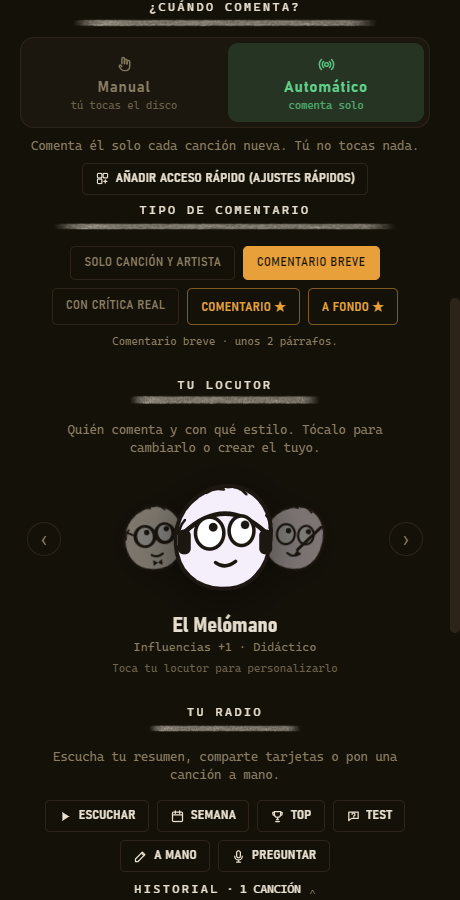
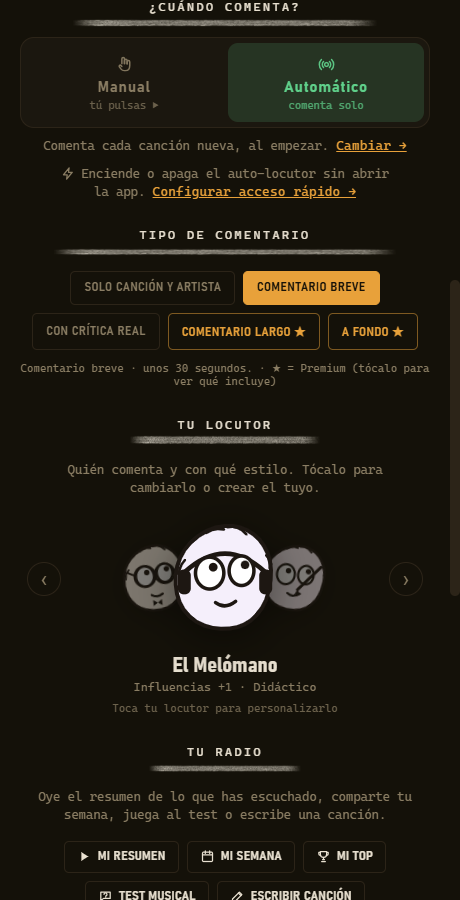
Landing al día con Locutor 2.28: textos, capturas nuevas y descarga de la última versión
- Sin "datos reales, nunca inventados" (las fuentes son de edición abierta): "datos de fuentes de referencia"
- Fuera lo retirado: colchón de sonido / Sofá sonoro; el locutor ya no "comenta el momento" (entra por el verso)
- Nombres actuales: ▶ sobre la carátula, voz natural (Microsoft), test musical, tipos de comentario, iTunes
- "Cómo funciona": primero la música y ▶; la clave gratis después (la app funciona sin ella)
- Locutores con su tono real; El Devoto sin "por qué se venera"; precios sin emoji y con el test semanal
- FAQ: podcasts y "Borrar mis datos"
- Capturas regeneradas con la interfaz actual; tarjeta en JPEG (1,1 MB -> 100 KB)
- Descarga: /releases/latest/download/Locutor-Setup.exe (no hay que tocarla en cada versión)

diff --git a/public/index.html b/public/index.html
@@ -204,7 +204,7 @@
     <div>
       <div class="tally mono"><span class="dot"></span>EN DIRECTO · SIN MICRÓFONO</div>
       <h1>Una radio que sabe <span class="amber">de verdad</span> de tu música.</h1>
-      <p class="lead">Unos locutores con IA comentan en voz alta lo que suena en tu ordenador —con datos <b>reales</b>, nunca inventados—. <b>Sin micrófono, sin permisos</b>, y <b>gratis</b> con tu propia clave.</p>
+      <p class="lead">Unos locutores con IA comentan en voz alta lo que suena en tu ordenador, con datos de <b>fuentes de referencia</b>. <b>Sin micrófono, sin permisos</b>, y <b>gratis</b> con tu propia clave.</p>
       <div class="cta-row">
         <a class="btn big" href="#descargar">▶ Descargar para Windows</a>
         <a class="btn ghost big" href="#como">Ver cómo funciona</a>
@@ -223,7 +223,7 @@
 <!-- STRIP -->
 <div class="strip"><div class="wrap">
   <span><span class="i">✓</span><b>Sin micrófono</b> — lee el título y el artista, no graba</span>
-  <span><span class="i">✓</span><b>Datos reales</b> — Genius · Wikipedia · MusicBrainz · Last.fm</span>
+  <span><span class="i">✓</span><b>Con fuentes</b> — Genius · Wikipedia · MusicBrainz · Last.fm · iTunes</span>
   <span><span class="i">✓</span><b>Tu clave, tu equipo</b> — cifrada, nunca en el servidor</span>
   <span><span class="i">✓</span><b>Gratis</b> — con opciones de IA sin tarjeta</span>
 </div></div>
@@ -242,8 +242,8 @@
       <h3>Reacciona al verso que suena.</h3>
       <p>La letra sincronizada resalta la <b>línea exacta</b> que suena en cada momento, y tu locutor <b>entra por lo que dice</b> ese verso. Como un karaoke con quien te lo explica.</p>
       <ul class="ticks">
-        <li>Detecta la posición de la canción en tiempo real</li>
-        <li>El locutor comenta el momento, no de forma genérica</li>
+        <li>Sigue la canción en tiempo real y resalta el verso que suena</li>
+        <li>Si encaja, tu locutor entra por lo que dice ese verso</li>
         <li>Gratis, y se puede apagar cuando quieras</li>
       </ul>
     </div>
@@ -251,29 +251,29 @@
 
   <!-- Tú mandas: manual / automático -->
   <div class="feat rev" style="margin-top:64px">
-    <div class="fig reveal"><div class="device"><img src="img/selector.png" alt="Selector Manual o Automático: en manual tocas el disco, en automático comenta solo al cambiar de canción" /></div></div>
+    <div class="fig reveal"><div class="device"><img src="img/selector.png" alt="Selector Manual o Automático: en manual pulsas ▶ sobre la carátula, en automático comenta solo al cambiar de canción" /></div></div>
     <div class="reveal">
       <span class="kicker">Tú mandas</span>
       <h3>Manual o automático. Tú decides cuándo habla.</h3>
-      <p>En <b>Manual</b>, tocas el disco y comenta. En <b>Automático</b>, habla solo entre canciones —ponlo y olvídate—. Y elige <b>en qué se fija</b>: la letra, la producción, la historia…</p>
+      <p>En <b>Manual</b>, pulsas ▶ sobre la carátula y comenta. En <b>Automático</b>, comenta solo cada canción nueva —ponlo y olvídate—: una de cada dos, cada una o dos veces por canción. Y elige <b>en qué se fija</b>: la letra, la producción, la historia…</p>
       <ul class="ticks">
-        <li>Comentario <b>breve</b>, normal o <b>a fondo</b></li>
+        <li>Solo el nombre, comentario <b>breve</b>, con <b>crítica real</b>, largo o <b>a fondo</b></li>
         <li>Baja la música mientras habla y la sube al terminar</li>
-        <li>Un colchón de sonido y una firma al entrar, como una emisora</li>
+        <li>Al empezar la canción o al terminar, acabando antes de que entre la siguiente</li>
       </ul>
     </div>
   </div>
 
   <!-- De dónde sale: MISMO formato que las otras filas (mockup + ticks), aclarando el proceso -->
   <div class="feat" style="margin-top:64px">
-    <div class="fig card reveal"><div class="device"><img src="img/card.png" alt="Tarjeta de un comentario con datos reales: álbum, año, género, sello, compositor y las fuentes Genius, Wikipedia y MusicBrainz" /></div></div>
+    <div class="fig card reveal"><div class="device"><img src="img/card.jpg" alt="Tarjeta de un comentario con sus datos: álbum, año, género, sello, compositor y las fuentes Genius, Wikipedia y MusicBrainz" loading="lazy" /></div></div>
     <div class="reveal">
       <span class="kicker">De dónde sale</span>
       <h3>Tu locutor sabe de lo que habla.</h3>
       <p>No habla por hablar. Antes de comentar, reconoce la canción y busca los datos en fuentes de referencia.</p>
       <ul class="ticks">
         <li>Lee el <b>título y el artista</b> de lo que suena —sin micrófono</li>
-        <li>Consulta <b>Genius, Wikipedia, MusicBrainz y Last.fm</b></li>
+        <li>Consulta <b>Genius, Wikipedia, MusicBrainz, Last.fm e iTunes</b></li>
         <li>Lo cuenta con su estilo y te <b>enseña de dónde sale</b> cada dato</li>
       </ul>
     </div>
@@ -281,12 +281,12 @@
 
   <!-- Rejilla de más potencial -->
   <div class="grid">
-    <div class="card reveal"><div class="ico"><svg viewBox="0 0 24 24"><rect x="9" y="3" width="6" height="11" rx="3"/><path d="M6 11.5a6 6 0 0 0 12 0M12 17.5V21M9 21h6"/></svg></div><h4>Tu locutor, a tu gusto</h4><p>Nueve personalidades listas —o crea la tuya: su enfoque, su tono, hasta una voz que imitar.</p></div>
-    <div class="card reveal"><div class="ico"><svg viewBox="0 0 24 24"><circle cx="12" cy="12" r="2"/><path d="M8.5 8.5a5 5 0 0 0 0 7M15.5 8.5a5 5 0 0 1 0 7M6 6a8.5 8.5 0 0 0 0 12M18 6a8.5 8.5 0 0 1 0 12"/></svg></div><h4>Voces de verdad</h4><p>Voz neural gratis (Edge), la voz de tu propia IA, o premium con ElevenLabs / Cartesia. Una por locutor.</p></div>
+    <div class="card reveal"><div class="ico"><svg viewBox="0 0 24 24"><rect x="9" y="3" width="6" height="11" rx="3"/><path d="M6 11.5a6 6 0 0 0 12 0M12 17.5V21M9 21h6"/></svg></div><h4>Tu locutor, a tu gusto</h4><p>Nueve personalidades listas —o crea la tuya: su enfoque, su tono y su personalidad.</p></div>
+    <div class="card reveal"><div class="ico"><svg viewBox="0 0 24 24"><circle cx="12" cy="12" r="2"/><path d="M8.5 8.5a5 5 0 0 0 0 7M15.5 8.5a5 5 0 0 1 0 7M6 6a8.5 8.5 0 0 0 0 12M18 6a8.5 8.5 0 0 1 0 12"/></svg></div><h4>Voces de verdad</h4><p>Voz natural gratis (Microsoft), la voz de tu propia IA, o premium con ElevenLabs / Cartesia. Una por locutor.</p></div>
     <div class="card reveal"><div class="ico"><svg viewBox="0 0 24 24"><path d="M12 20s-6.8-4.2-9.1-8.4C1.3 8.7 2.8 5.7 5.6 5.4 7.5 5.2 9 6.1 12 8.6c3-2.5 4.5-3.4 6.4-3.2 2.8.3 4.3 3.3 2.7 6.2C18.8 15.8 12 20 12 20z"/></svg></div><h4>Te conoce</h4><p>Aprende tus gustos entre sesiones y los referencia con naturalidad. Tu radio, cada vez más tuya.</p></div>
-    <div class="card reveal"><div class="ico"><svg viewBox="0 0 24 24"><path d="M4 20V13M9.3 20V8M14.6 20v-5M20 20V5"/></svg></div><h4>Tu semana</h4><p>Resumen de lo que has escuchado, tu Top de artistas y una tarjeta lista para compartir.</p></div>
-    <div class="card reveal"><div class="ico"><svg viewBox="0 0 24 24"><path d="M4.5 5h15v10H9l-4.5 3.5z"/><path d="M9.6 8.6a2.4 2.4 0 1 1 2.9 2.4v.9"/><circle cx="12.4" cy="13.4" r=".7" fill="#E8A13A" stroke="none"/></svg></div><h4>Test de tu semana</h4><p>Un juego con preguntas sobre TUS canciones, sacadas de lo que ya te han contado y de sus fuentes.</p></div>
-    <div class="card reveal"><div class="ico"><svg viewBox="0 0 24 24"><circle cx="8" cy="8" r="4.5"/><path d="M11.2 11.2 20 20M16.7 16.7 18.7 14.7M14.2 14.2 16.2 12.2"/></svg></div><h4>Tu IA, tu elección</h4><p>Gemini, Groq, Mistral (gratis), OpenAI o Claude. Guarda varias claves: si una se agota, usa otra sola.</p></div>
+    <div class="card reveal"><div class="ico"><svg viewBox="0 0 24 24"><path d="M4 20V13M9.3 20V8M14.6 20v-5M20 20V5"/></svg></div><h4>Tu semana</h4><p>Tu resumen, tu semana y tu top, en tarjetas que ves antes de compartir.</p></div>
+    <div class="card reveal"><div class="ico"><svg viewBox="0 0 24 24"><path d="M4.5 5h15v10H9l-4.5 3.5z"/><path d="M9.6 8.6a2.4 2.4 0 1 1 2.9 2.4v.9"/><circle cx="12.4" cy="13.4" r=".7" fill="#E8A13A" stroke="none"/></svg></div><h4>Test musical</h4><p>Un juego con preguntas sobre TUS canciones, sacadas de lo que ya te han contado y de sus fuentes.</p></div>
+    <div class="card reveal"><div class="ico"><svg viewBox="0 0 24 24"><circle cx="8" cy="8" r="4.5"/><path d="M11.2 11.2 20 20M16.7 16.7 18.7 14.7M14.2 14.2 16.2 12.2"/></svg></div><h4>Tu IA, tu elección</h4><p>Gemini, Groq, Mistral (gratis), OpenAI o Claude. Si tu IA va saturada o sin cupo, prueba sola su modelo ligero u otra de tus claves.</p></div>
   </div>
 </div></section>
 
@@ -294,20 +294,20 @@
 <section id="como"><div class="wrap center">
   <div class="sec-lbl">CÓMO FUNCIONA</div>
   <h2 class="big reveal">Listo en treinta segundos.</h2>
-  <p class="sec-sub reveal">Sin configurar nada raro. Lo único que necesitas es una clave de IA —y hay varias gratis.</p>
+  <p class="sec-sub reveal">Sin configurar nada raro. Funciona desde el primer momento; con una clave de IA gratis, comenta de verdad.</p>
   <div class="steps" style="text-align:left">
-    <div class="step reveal">
-      <h3>Pon tu clave de IA</h3>
-      <p>Pégala y la app la reconoce sola. Hay <b style="color:var(--text)">varias gratis y sin tarjeta</b>: Gemini, Groq o Mistral. También valen OpenAI o Claude.</p>
-      <span class="free">✓ empieza gratis</span>
-    </div>
     <div class="step reveal">
       <h3>Pon música</h3>
       <p>En Spotify, YouTube Music o lo que uses. Locutor <b style="color:var(--text)">reconoce solo</b> lo que está sonando, por Windows. Sin micrófono.</p>
+      <span class="free">✓ empieza gratis</span>
     </div>
     <div class="step reveal">
-      <h3>Escucha el programa</h3>
-      <p>Tu locutor comenta la canción en voz alta. Tú a lo tuyo; él pone la radio —a mano o solo entre canciones.</p>
+      <h3>Pulsa ▶ sobre la carátula</h3>
+      <p>Tu locutor comenta la canción en voz alta. O ponlo en <b style="color:var(--text)">Automático</b> y comentará solo cada canción nueva.</p>
+    </div>
+    <div class="step reveal">
+      <h3>Pon tu clave gratis</h3>
+      <p>Sin clave nombra las canciones con datos de sus fuentes. Con una <b style="color:var(--text)">gratis y sin tarjeta</b> (Gemini, Groq o Mistral) las comenta con IA: la app te guía y la reconoce sola.</p>
     </div>
   </div>
 </div></section>
@@ -318,10 +318,10 @@
   <h2 class="big reveal">Cada uno oye la canción a su manera.</h2>
   <p class="sec-sub reveal">Elige el que va contigo —o crea el tuyo desde cero.</p>
   <div class="locs" style="text-align:left">
-    <div class="loc reveal"><div class="av"><svg viewBox="0 0 24 24"><path d="M4 13v-1a8 8 0 0 1 16 0v1"/><rect x="3" y="13" width="4.6" height="7" rx="2"/><rect x="16.4" y="13" width="4.6" height="7" rx="2"/></svg></div><div><h4>El Melómano</h4><div class="tag">Influencias · Apasionado</div><p>Conecta la canción con su linaje: de dónde bebe y a quién marcó.</p></div></div>
-    <div class="loc reveal"><div class="av"><svg viewBox="0 0 24 24"><path d="M12 6.6C10.4 5.2 7.8 4.7 4 5.3v13c3.8-.6 6.4-.1 8 1.3 1.6-1.4 4.2-1.9 8-1.3v-13c-3.8-.6-6.4-.1-8 1.3z"/><path d="M12 6.6V19.6"/></svg></div><div><h4>El Profesor</h4><div class="tag">Historia · Didáctico</div><p>De qué va de verdad y qué hay detrás: el dato que sabe un fan.</p></div></div>
-    <div class="loc reveal"><div class="av"><svg viewBox="0 0 24 24"><path d="M4 7h10M18 7h2M4 17h2M10 17h10"/><circle cx="16" cy="7" r="2.2"/><circle cx="8" cy="17" r="2.2"/></svg></div><div><h4>El Productor</h4><div class="tag">Producción · Sobrio</div><p>Cómo está hecha por dentro: arreglos y decisiones de estudio.</p></div></div>
-    <div class="loc reveal"><div class="av"><svg viewBox="0 0 24 24"><path d="M12 20s-6.8-4.2-9.1-8.4C1.3 8.7 2.8 5.7 5.6 5.4 7.5 5.2 9 6.1 12 8.6c3-2.5 4.5-3.4 6.4-3.2 2.8.3 4.3 3.3 2.7 6.2C18.8 15.8 12 20 12 20z"/></svg></div><div><h4>El Devoto</h4><div class="tag">Escena · Fan fiel</div><p>La mira con los ojos del fan de siempre: por qué se venera.</p></div></div>
+    <div class="loc reveal"><div class="av"><svg viewBox="0 0 24 24"><path d="M4 13v-1a8 8 0 0 1 16 0v1"/><rect x="3" y="13" width="4.6" height="7" rx="2"/><rect x="16.4" y="13" width="4.6" height="7" rx="2"/></svg></div><div><h4>El Melómano</h4><div class="tag">Influencias · Didáctico</div><p>Conecta la canción con su linaje: de dónde bebe y a quién marcó.</p></div></div>
+    <div class="loc reveal"><div class="av"><svg viewBox="0 0 24 24"><path d="M12 6.6C10.4 5.2 7.8 4.7 4 5.3v13c3.8-.6 6.4-.1 8 1.3 1.6-1.4 4.2-1.9 8-1.3v-13c-3.8-.6-6.4-.1-8 1.3z"/><path d="M12 6.6V19.6"/></svg></div><div><h4>El Profesor</h4><div class="tag">Teoría · Didáctico</div><p>Te enseña a oírla: un par de cosas que no habrías notado, sin que parezca una clase.</p></div></div>
+    <div class="loc reveal"><div class="av"><svg viewBox="0 0 24 24"><path d="M4 7h10M18 7h2M4 17h2M10 17h10"/><circle cx="16" cy="7" r="2.2"/><circle cx="8" cy="17" r="2.2"/></svg></div><div><h4>El Productor</h4><div class="tag">Producción · Apasionado</div><p>Cómo se hizo: quién la produjo, la decisión de estudio y la toma que se quedó.</p></div></div>
+    <div class="loc reveal"><div class="av"><svg viewBox="0 0 24 24"><path d="M12 20s-6.8-4.2-9.1-8.4C1.3 8.7 2.8 5.7 5.6 5.4 7.5 5.2 9 6.1 12 8.6c3-2.5 4.5-3.4 6.4-3.2 2.8.3 4.3 3.3 2.7 6.2C18.8 15.8 12 20 12 20z"/></svg></div><div><h4>El Devoto</h4><div class="tag">Escena · Fan fiel</div><p>La mira con los ojos del fan de siempre: la cara B, el directo legendario, el detalle que solo sabe quien la quiere.</p></div></div>
     <div class="loc reveal"><div class="av"><svg viewBox="0 0 24 24"><path d="M4 20h4L19 9l-4-4L4 16z"/><path d="M13.5 6.5l4 4"/></svg></div><div><h4>La Letrista</h4><div class="tag">Letra · Poética</div><p>El verso que gira el sentido, lo que confiesa quien canta.</p></div></div>
     <div class="loc reveal"><div class="av"><svg viewBox="0 0 24 24"><path d="M12 5v14M5 12h14"/></svg></div><div><h4>Crea el tuyo</h4><div class="tag">Personalizable</div><p>Elige su enfoque, su tono y hasta la forma de hablar de alguien.</p></div></div>
   </div>
@@ -350,9 +350,10 @@
         <li>Con tu clave (Gemini/Groq/Mistral gratis)</li>
         <li>Un locutor comentando</li>
         <li>Comentario <b>breve</b></li>
-        <li>Voz neural gratis o la voz de tu IA</li>
+        <li>Voz natural gratis o la voz de tu IA</li>
         <li>Letra sincronizada · reconoce sin micrófono</li>
-        <li>Puntúa ⭐ y comparte tu Top</li>
+        <li>Puntúa con estrellas y comparte tu top</li>
+        <li>1 test musical a la semana</li>
         <li class="no">Comentario largo y a fondo</li>
         <li class="no">Sin límite diario</li>
       </ul>
@@ -364,8 +365,8 @@
       <ul>
         <li>Todo lo de Gratis, también con tu clave</li>
         <li><b>Comentario largo y a fondo</b> (más datos reales)</li>
-        <li><b>Sofá sonoro</b> y voces premium</li>
-        <li><b>Test de tu semana</b> sin límite</li>
+        <li>Voces premium (Cartesia, ElevenLabs)</li>
+        <li><b>Test musical</b> sin límite</li>
         <li>Sin límite diario de comentarios</li>
         <li>Cancela cuando quieras</li>
       </ul>
@@ -382,12 +383,13 @@
   <div class="faq" style="text-align:left">
     <details open><summary>¿Usa el micrófono o graba lo que escucho?</summary><p>No. Locutor solo lee el <b>título y el artista</b> de la canción que ya está sonando, a través de Windows. No accede al micrófono ni graba ningún audio, y <b>no pide ni da ningún permiso</b>.</p></details>
     <details><summary>¿Necesito una clave de inteligencia artificial? ¿Es difícil?</summary><p>Sí, la tuya propia — y es fácil: pega tu clave y la app la reconoce sola. Hay <b>varias gratis y sin tarjeta</b>: Gemini (aistudio.google.com), Groq (console.groq.com) o Mistral (console.mistral.ai). También valen OpenAI o Claude. Puedes guardar <b>varias</b>: si una se queda sin cuota, la app usa otra sola.</p></details>
-    <details><summary>¿De dónde saca los datos?</summary><p>Locutor funciona como un <b>buscador bien documentado</b>: antes de comentar, consulta fuentes de referencia —<b>Genius, Wikipedia, MusicBrainz y Last.fm</b>— y se apoya en ellas. Cada tarjeta te enseña de dónde sale cada dato.</p></details>
+    <details><summary>¿De dónde saca los datos?</summary><p>Locutor funciona como un <b>buscador bien documentado</b>: antes de comentar, consulta fuentes de referencia —<b>Genius, Wikipedia, MusicBrainz, Last.fm e iTunes</b>— y se apoya en ellas. Cada tarjeta te enseña de dónde sale cada dato.</p></details>
     <details><summary>¿Funciona con Spotify gratis?</summary><p>Sí. Funciona con Spotify (gratis o Premium), YouTube Music y la mayoría de apps que muestran la canción en Windows. Locutor solo necesita saber qué suena.</p></details>
-    <details><summary>¿Qué voces puedo usar?</summary><p>Varias, y eliges una por locutor: la <b>voz neural gratis</b> (Microsoft Edge, cientos de voces), la <b>voz de tu propia IA</b> (OpenAI, Gemini o Groq), o voces premium con tu clave de <b>Cartesia</b> o <b>ElevenLabs</b>. También la voz de Windows sin conexión.</p></details>
-    <details><summary>¿Qué incluye Premium?</summary><p>Premium (4,99€/mes) desbloquea el <b>comentario a fondo</b>, el <b>sofá sonoro</b>, las voces premium y el <b>Test de tu semana</b> sin límite, y quita el tope diario. La IA sigue siendo tu clave; Premium paga los modos avanzados de la app.</p></details>
+    <details><summary>¿Comenta podcasts o vídeos?</summary><p>No: tu locutor comenta <b>canciones</b>. Si lo que suena es un podcast, te lo dice y no se pone a comentarlo como si fuera un tema.</p></details>
+    <details><summary>¿Qué voces puedo usar?</summary><p>Varias, y eliges una por locutor: la <b>voz natural gratis</b> (Microsoft, cientos de voces), la <b>voz de tu propia IA</b> (OpenAI, Gemini o Groq), o voces premium con tu clave de <b>Cartesia</b> o <b>ElevenLabs</b>. También la voz de Windows sin conexión.</p></details>
+    <details><summary>¿Qué incluye Premium?</summary><p>Premium (4,99€/mes) desbloquea el <b>comentario largo y a fondo</b>, las voces premium y el <b>test musical</b> sin límite, y quita el tope diario. La IA sigue siendo tu clave; Premium paga los modos avanzados de la app.</p></details>
     <details><summary>¿Y en Android?</summary><p><b>Muy pronto.</b> Estamos rematando la versión para móvil. De momento, Locutor funciona en Windows 10 y 11.</p></details>
-    <details><summary>¿Guardáis mi clave?</summary><p>No en nuestro servidor. Tu clave se guarda <b>cifrada en tu propio equipo</b> y se usa directamente contra tu proveedor de IA. Nada de publicidad ni de vender datos.</p></details>
+    <details><summary>¿Guardáis mi clave?</summary><p>No en nuestro servidor. Tu clave se guarda <b>cifrada en tu propio equipo</b> y se usa directamente contra tu proveedor de IA. Puedes borrarla, junto a tu historial, desde Ajustes → <b>Borrar mis datos</b>. Nada de publicidad ni de vender datos.</p></details>
   </div>
 </div></section>
 
@@ -396,7 +398,7 @@
   <div class="sec-lbl">EMPIEZA</div>
   <h2 class="big reveal">Pon la radio. La tuya.</h2>
   <p class="sec-sub reveal" style="margin-bottom:28px">Descárgala para Windows y deja que tus canciones tengan quien las cuente.</p>
-  <a class="btn big" href="https://github.com/rfabregamiralbell-cmd/sintonia-server/releases/download/v1.0.0/Locutor-Setup.exe" id="downloadBtn">▶ Descargar para Windows · Gratis</a>
+  <a class="btn big" href="https://github.com/rfabregamiralbell-cmd/sintonia-server/releases/latest/download/Locutor-Setup.exe" id="downloadBtn">▶ Descargar para Windows · Gratis</a>
   <div class="cta-row center" style="justify-content:center;margin-top:14px"><span class="chip"><svg viewBox="0 0 24 24"><rect x="7" y="3" width="10" height="18" rx="2.5"/><line x1="10.5" y1="18" x2="13.5" y2="18"/></svg> Android muy pronto</span></div>
   <p class="trust" style="margin-top:18px">Windows 10/11 · Sin micrófono · Se instala y se abre solo</p>
   <p class="trust" style="margin-top:8px;opacity:.8;max-width:620px;margin-left:auto;margin-right:auto">Al terminar la descarga, <b style="color:var(--text)">ábrelo</b>: se instala solo y Locutor se abre al terminar. La primera vez Windows avisa (“editor desconocido”): pulsa <b style="color:var(--text)">Más información → Ejecutar de todas formas</b>.</p>
